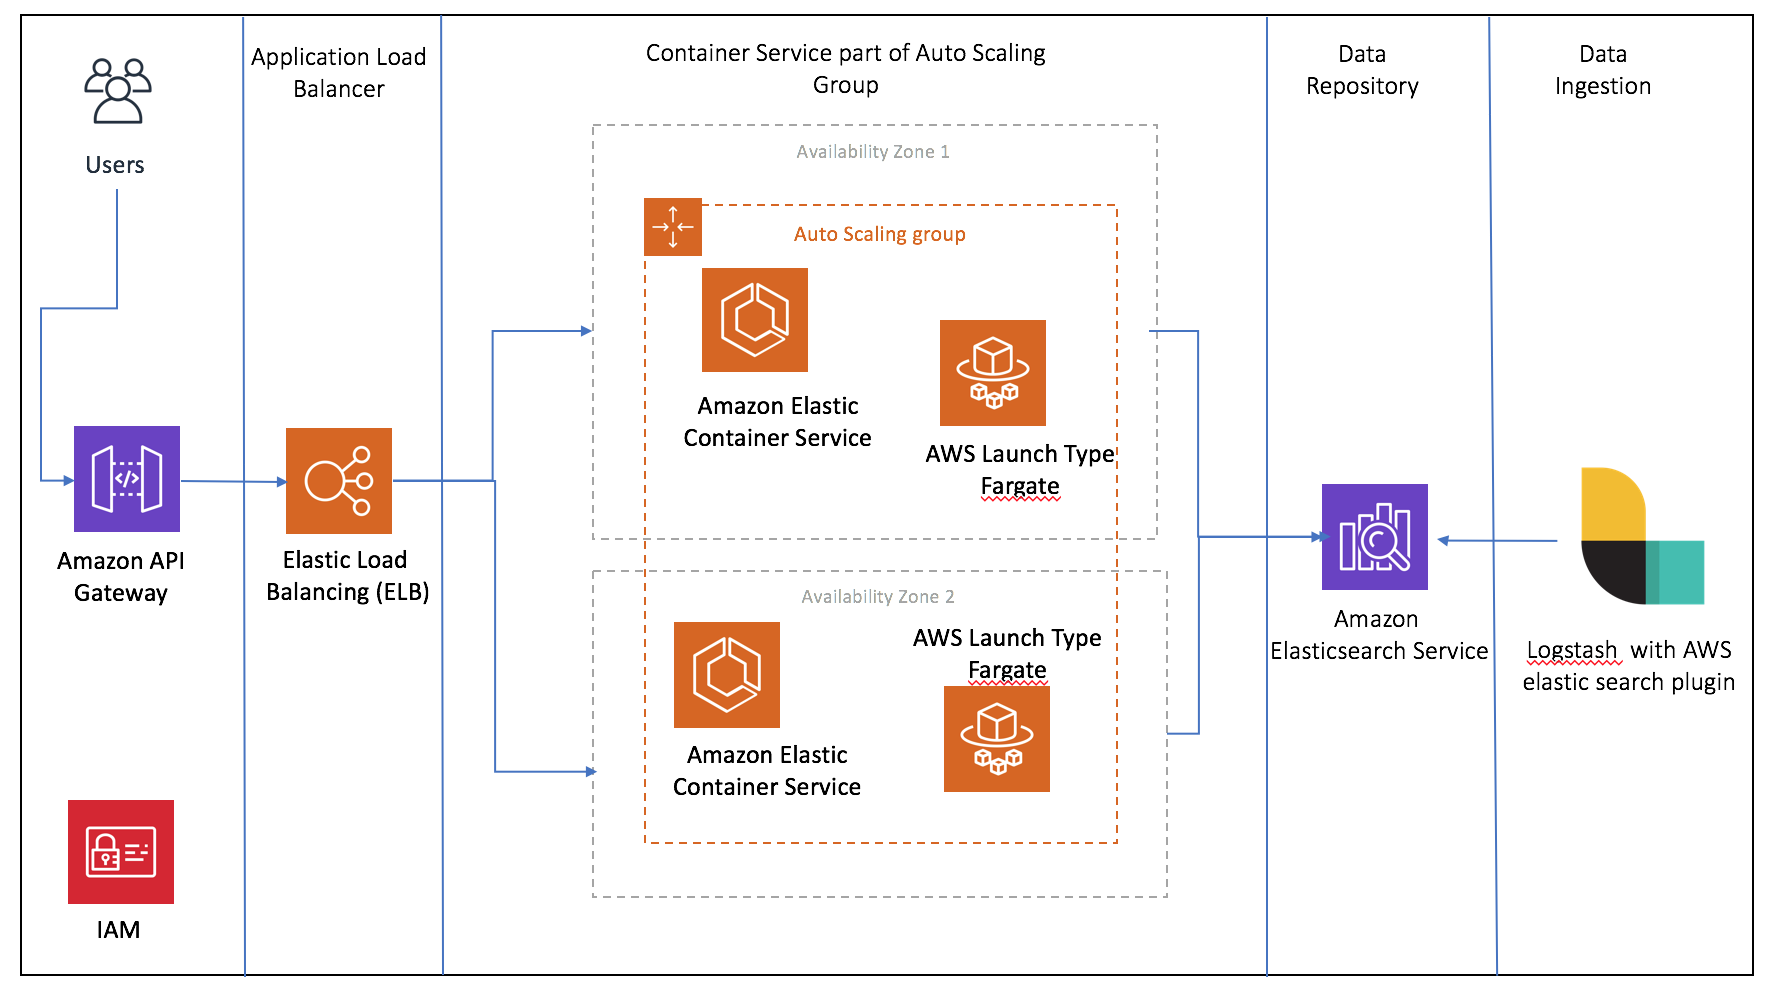
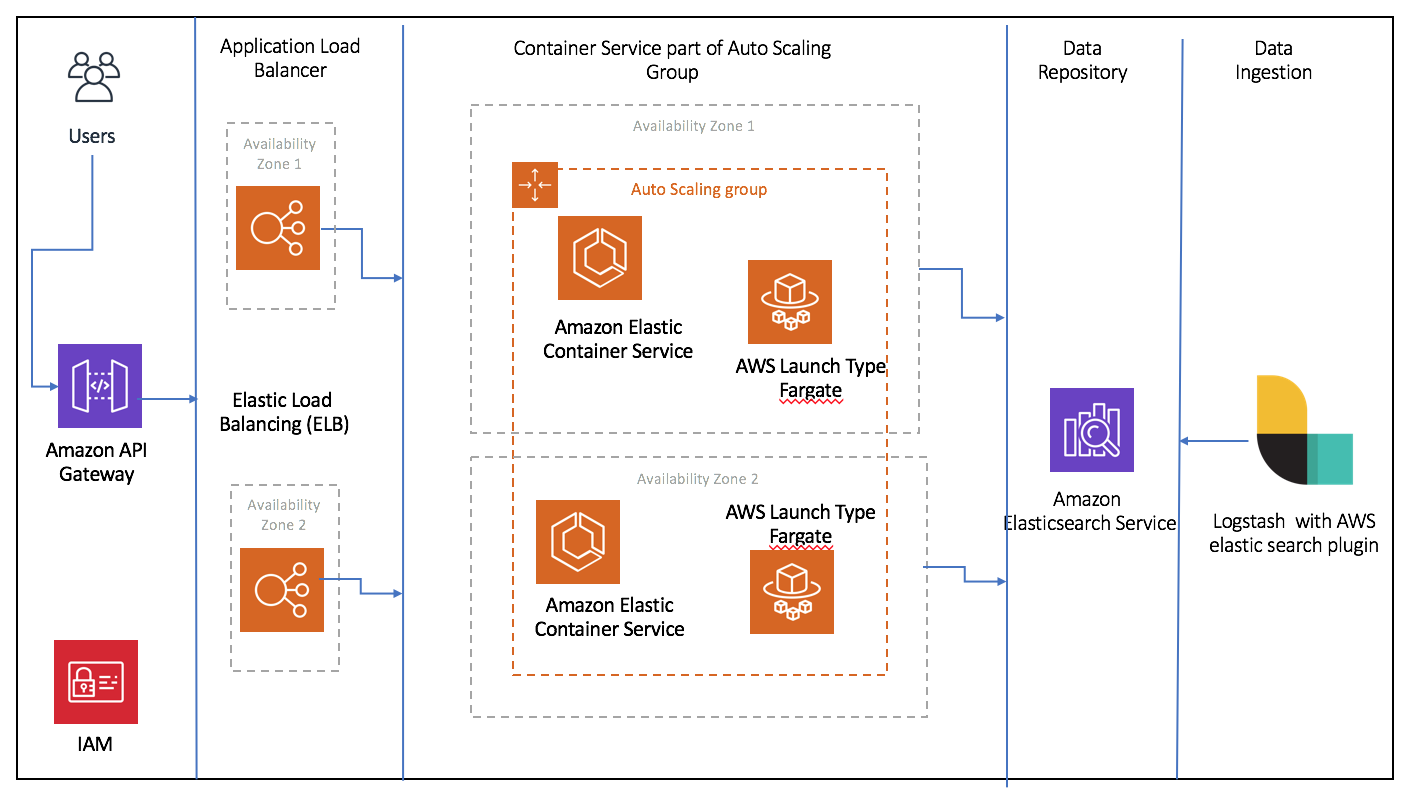
Search Microservice for AWS Elastic Search

diff --git a/README.md b/README.md
@@ -10,8 +10,7 @@ Using Java, write a micro service that invokes AWS elastic search and make it av
 
 
 ## System  Architecture
-Following are the different AWS componenents leveraged for building highy avalabile and scalable
-system. 
+Following is my current system architecture for building Highy Available  and Scalable system by leveraging different AWS components.
 
 ![Alt text](docs/Architecture.png)  
 
@@ -25,15 +24,14 @@ level micro service acrchitecture of the services in the system.
 
 ## Final Deliverables 
 
-Following are the three  Amazon  API Gateway based Microservice API's  developed with and without paginaton with above architecture 
-in place. you can pass query string sponsorname, sponsorstate or  planname  with required value.
-along with this query parameter , you can use pagination as required.  
+With the above architectural components in place, following are the three API's  exposed using  Amazon  API Gateway. All the three methods provides optional pagination along
+with  the required query string sponsorname, sponsorstate or  planname.
 
-* With Pagination : You can mention the number of records along with the offset.
-* Without Pagination : By default every  API returns Max 10 records. 
+* With Pagination : You can mention the number of records along with the offset,  here you can pass two optional  extra parameters size and offset.
+* Without Pagination : By default every  API returns Max 10 records, here you should pass the required parameter.  
 
 
-### Search by Sponsor Name
+### 1. Search by Sponsor Name
 
 * ##### Without Pagination 
 https://5g7l7uaz82.execute-api.us-east-2.amazonaws.com/dev?sponsorname=david
@@ -44,7 +42,7 @@ https://5g7l7uaz82.execute-api.us-east-2.amazonaws.com/dev?sponsorname=david&siz
 ### Sample Output
 ![Alt text](docs/SponsorName.png)
 
-### Search by Sponsor State
+### 2. Search by Sponsor State
 
 #### Without Pagination  
 https://5g7l7uaz82.execute-api.us-east-2.amazonaws.com/dev?sponsorstate=TX
@@ -55,7 +53,7 @@ https://5g7l7uaz82.execute-api.us-east-2.amazonaws.com/dev?sponsorstate=TX&size=
 ### Sample Output
 ![Alt text](docs/SponsorState.png)
 
-### Search by Plan Name
+### 3. Search by Plan Name
 
 #### Without Pagination , By default this API returns Max 10 records. 
 https://5g7l7uaz82.execute-api.us-east-2.amazonaws.com/dev?planname=401k
@@ -67,26 +65,24 @@ https://5g7l7uaz82.execute-api.us-east-2.amazonaws.com/dev?planname=401k&size=2&
 ![Alt text](docs/PlanName.png)
 
 
-## System Components
-Following are the different componets used in the system  
+## System Components in Detail
 
 ## AWS Elastic Search
 
 Elasticsearch is an open-source, RESTful, distributed search and analytics engine built on Apache Lucene, when it comes to 
 Amazon Elasticsearch Service, it  is a fully managed service that is provided by amazon, Basically it provides two different services
 one is a single node service and the other is a clustered service with different master nodes and deploying them in different
-availability zones for high availability. Along with this  it also offers Kibana a visual dashbaord by default when
-we subscribe for Elastic search service. It also provides certain plugins with different log shippers like logstash for 
-pushing the required data. 
+availability zones for high availability. Along with this,  it also offers Kibana a visual dashbaord by default,  when
+we subscribe for Elastic search service. Amazon also provides certain plugins with different log shippers like logstash for 
+ingesting the required data to elastic search. 
 
 ## Configuartion 
 ![Alt text](docs/Elastic-Search-Instance.png)
 
 
 ## Data Ingestion
-There are different data ingestion tools data for ingesting the data. in the same context we 
-use the term log shippers , there are different log shippers available in todays cloud world
-like Filebeat, Logstash, Fluentd, etc. I had leveraged logstash here for ingesting the test
+In todays cloud and IOT world with data growing exponentially data ingestion plays an important role. Therefore there are different data ingestion tools  for ingesting the data into different repositories. In the same context the term log shippers is used, there are different 
+log shippers available in todays cloud world like Filebeat, Logstash, Fluentd, etc. I had leveraged logstash here for ingesting the given test
 data into elatic search server as Amazon provides elastic search output channel plugin that can
 be used with logstash, this plugin helped me in pushing the huge csv file into elastic search
 by doing bulk upload. 
@@ -97,15 +93,16 @@ by doing bulk upload.
 
 ## Elastic Container Service
 Containers are the next level of virtual computing that came after virtual machines. 
-containers are easily deployable with different services like docker, rocket etc. Containers
-are the most frequently used packaging component in today cloud world. Therefore container orchestartion
-is the most important task in todays container world, Today we ave different container orchestartion
+Containers are easily deployable with different services like Docker, Rocket etc. Containers
+are the most frequently used packaging component in today cloud world,Therefore container orchestartion
+is the most important task in todays container world and today we have different container orchestartion
 frameworks like Kubernetes, Docker Swarm and many managed services like GKE, AKE, OKE and ECS.
-I had levaraged ECS from Amazon for container orchestartion services by leveraged the autoscaling group\
+I had levaraged ECS from Amazon for container orchestartion services by leveraging the autoscaling group\
 which provides high availability. 
 
 ## Cluster Details 
 ![Alt text](docs/ECS-Cluster.png)
+
 
 ## Configuartion
 ![Alt text](docs/ECS-AutoScaling-Group.png)
@@ -115,8 +112,8 @@ which provides high availability.
 ## Load Balancer
 Load balancer provides high availability to the system, so i had leveraged elastic load balancer 
 provided by AWS deployed across multiple Availability Zones. Load balancer in my current system
-talks to ECS for provding the required services. One point to note here is i had leveraged
-spring actuator health endpoint for getting the health of the system. 
+talks to ECS for provding the required services. One point to note here is, AWS Load balanacer requires certain
+health check point to be configured , i had leveraged spring actuator health endpoint for getting the health of the my system. 
  
 ## Configuartion 
 ![Alt text](docs/Loadbalancer.png)
@@ -126,7 +123,7 @@ spring actuator health endpoint for getting the health of the system.
 API Gateway is one of the design pattern that is used with micro service based architecture, It acts as a single point of entry
 for all the micro services in the system. Amazon provdes the same system with the component named
 Amazon API Gateway. Apart from acting as a single point of entry, Amazon API gateway provides numerous
-other features like authenication, documentation, Testing, monetization , Securing from DDOS attacks and 
+other features like authenication, documentation, Testing, Monetization of your API by resting number of calls to API , Securing from DDOS attacks and 
 many more.  
 
 ### API Creation
@@ -136,13 +133,17 @@ many more.
 ### API Configuration
 
 API Gateway Configuation for the given API, if you see on the right side of the image here, we 
-can see the reference to load balancer. In the current System API gateway is configured to load balancer
-which inturn is pointed to ECS for better availability. 
+can see the reference to load balancer. In the current System API gateway is configured to load balancer than directly
+interacting with ECS for better availability. 
  
 ![Alt text](docs/API-Gateway-Configuration.png)
 
 
 ## Docker - Image
+Building and publishing docker images to reposoitries is part of continuous integration. Therefore my gradle script
+is responsible for pushing an publishing  docker image of my Spring Boot application to docker registry.
+
+
 
 ### Steps
 1. Build a docker image of the Spring Boot application
@@ -152,13 +153,14 @@ My Docker Repo , where the docker image is published.
 ![Alt text](docs/My-DockerHub-Repo.png)
 
 ### Gradle Docker
+
 Gradle kick starting building and  pushing of Docker image  to docker hub
 
 ![Alt text](docs/DockerBuild-and-Push-to-DockerHub.png)
 
 
 ## Unit Testing
-Unit testing is an integral part of agile development principles. Today we have different framework like junit, mockito
+An improper unit testing product will definitely impact the product deliverable. Therefore  Unit testing is an integral part of any agile development principles. Today we have different framework like junit, mockito
 any many other frameworks, in the current system i had leveraged a framework called spock.
 
 Spock is a testing and specification framework for Java and Groovy applications. 
@@ -189,7 +191,7 @@ Application can be extended with more capabilities by adding some of the followi
 
 ## Conclusion
 Finally to conclude, This is a wonderfull excercise that gave me opportunity to look and work on different components of AWS and look into the 
-system in a more broad way. in fact We can leverage many more feature from AWS to enhance the system as per the requirements. Any corner you think of either its
+system in a more broad way. Infact we can leverage many more feature from AWS to enhance the system as per the requirements. Any corner you think of either its
 on analytics , Machine learning , IOT or any use case,  we can pretty much leverage AWS and other public cloud services. 
 
 Some of my articles  in the context of cloud computing.
